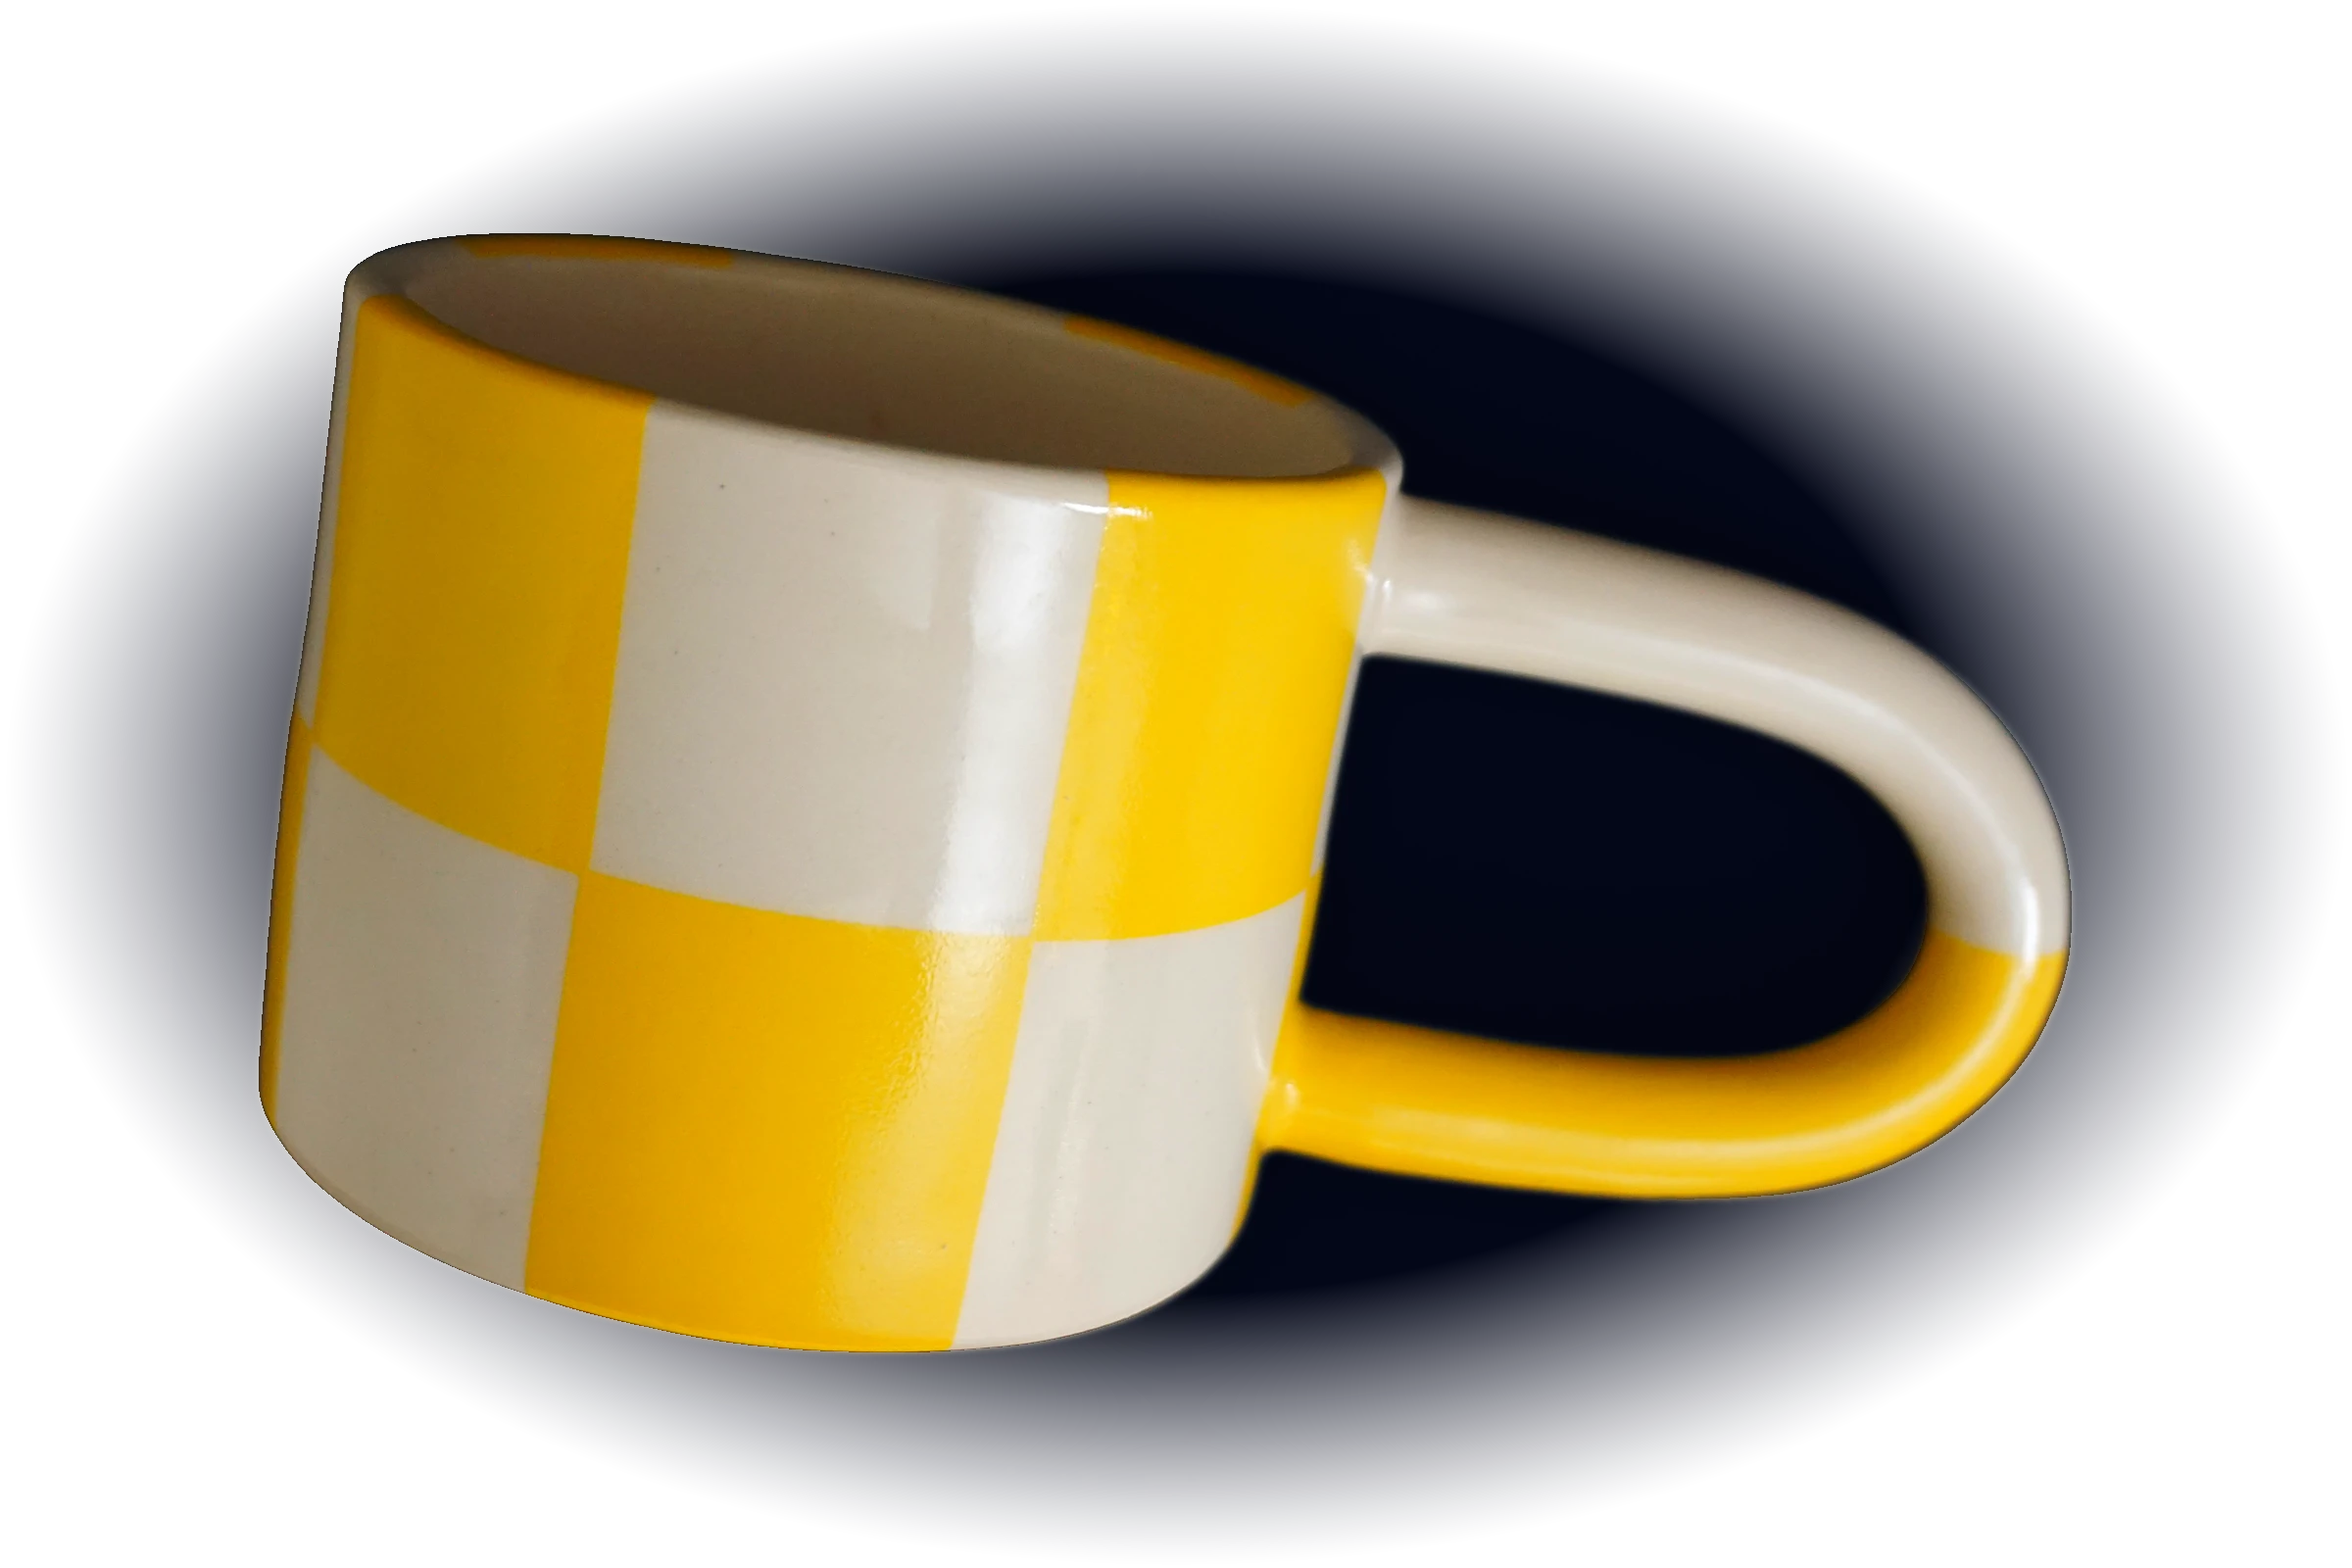
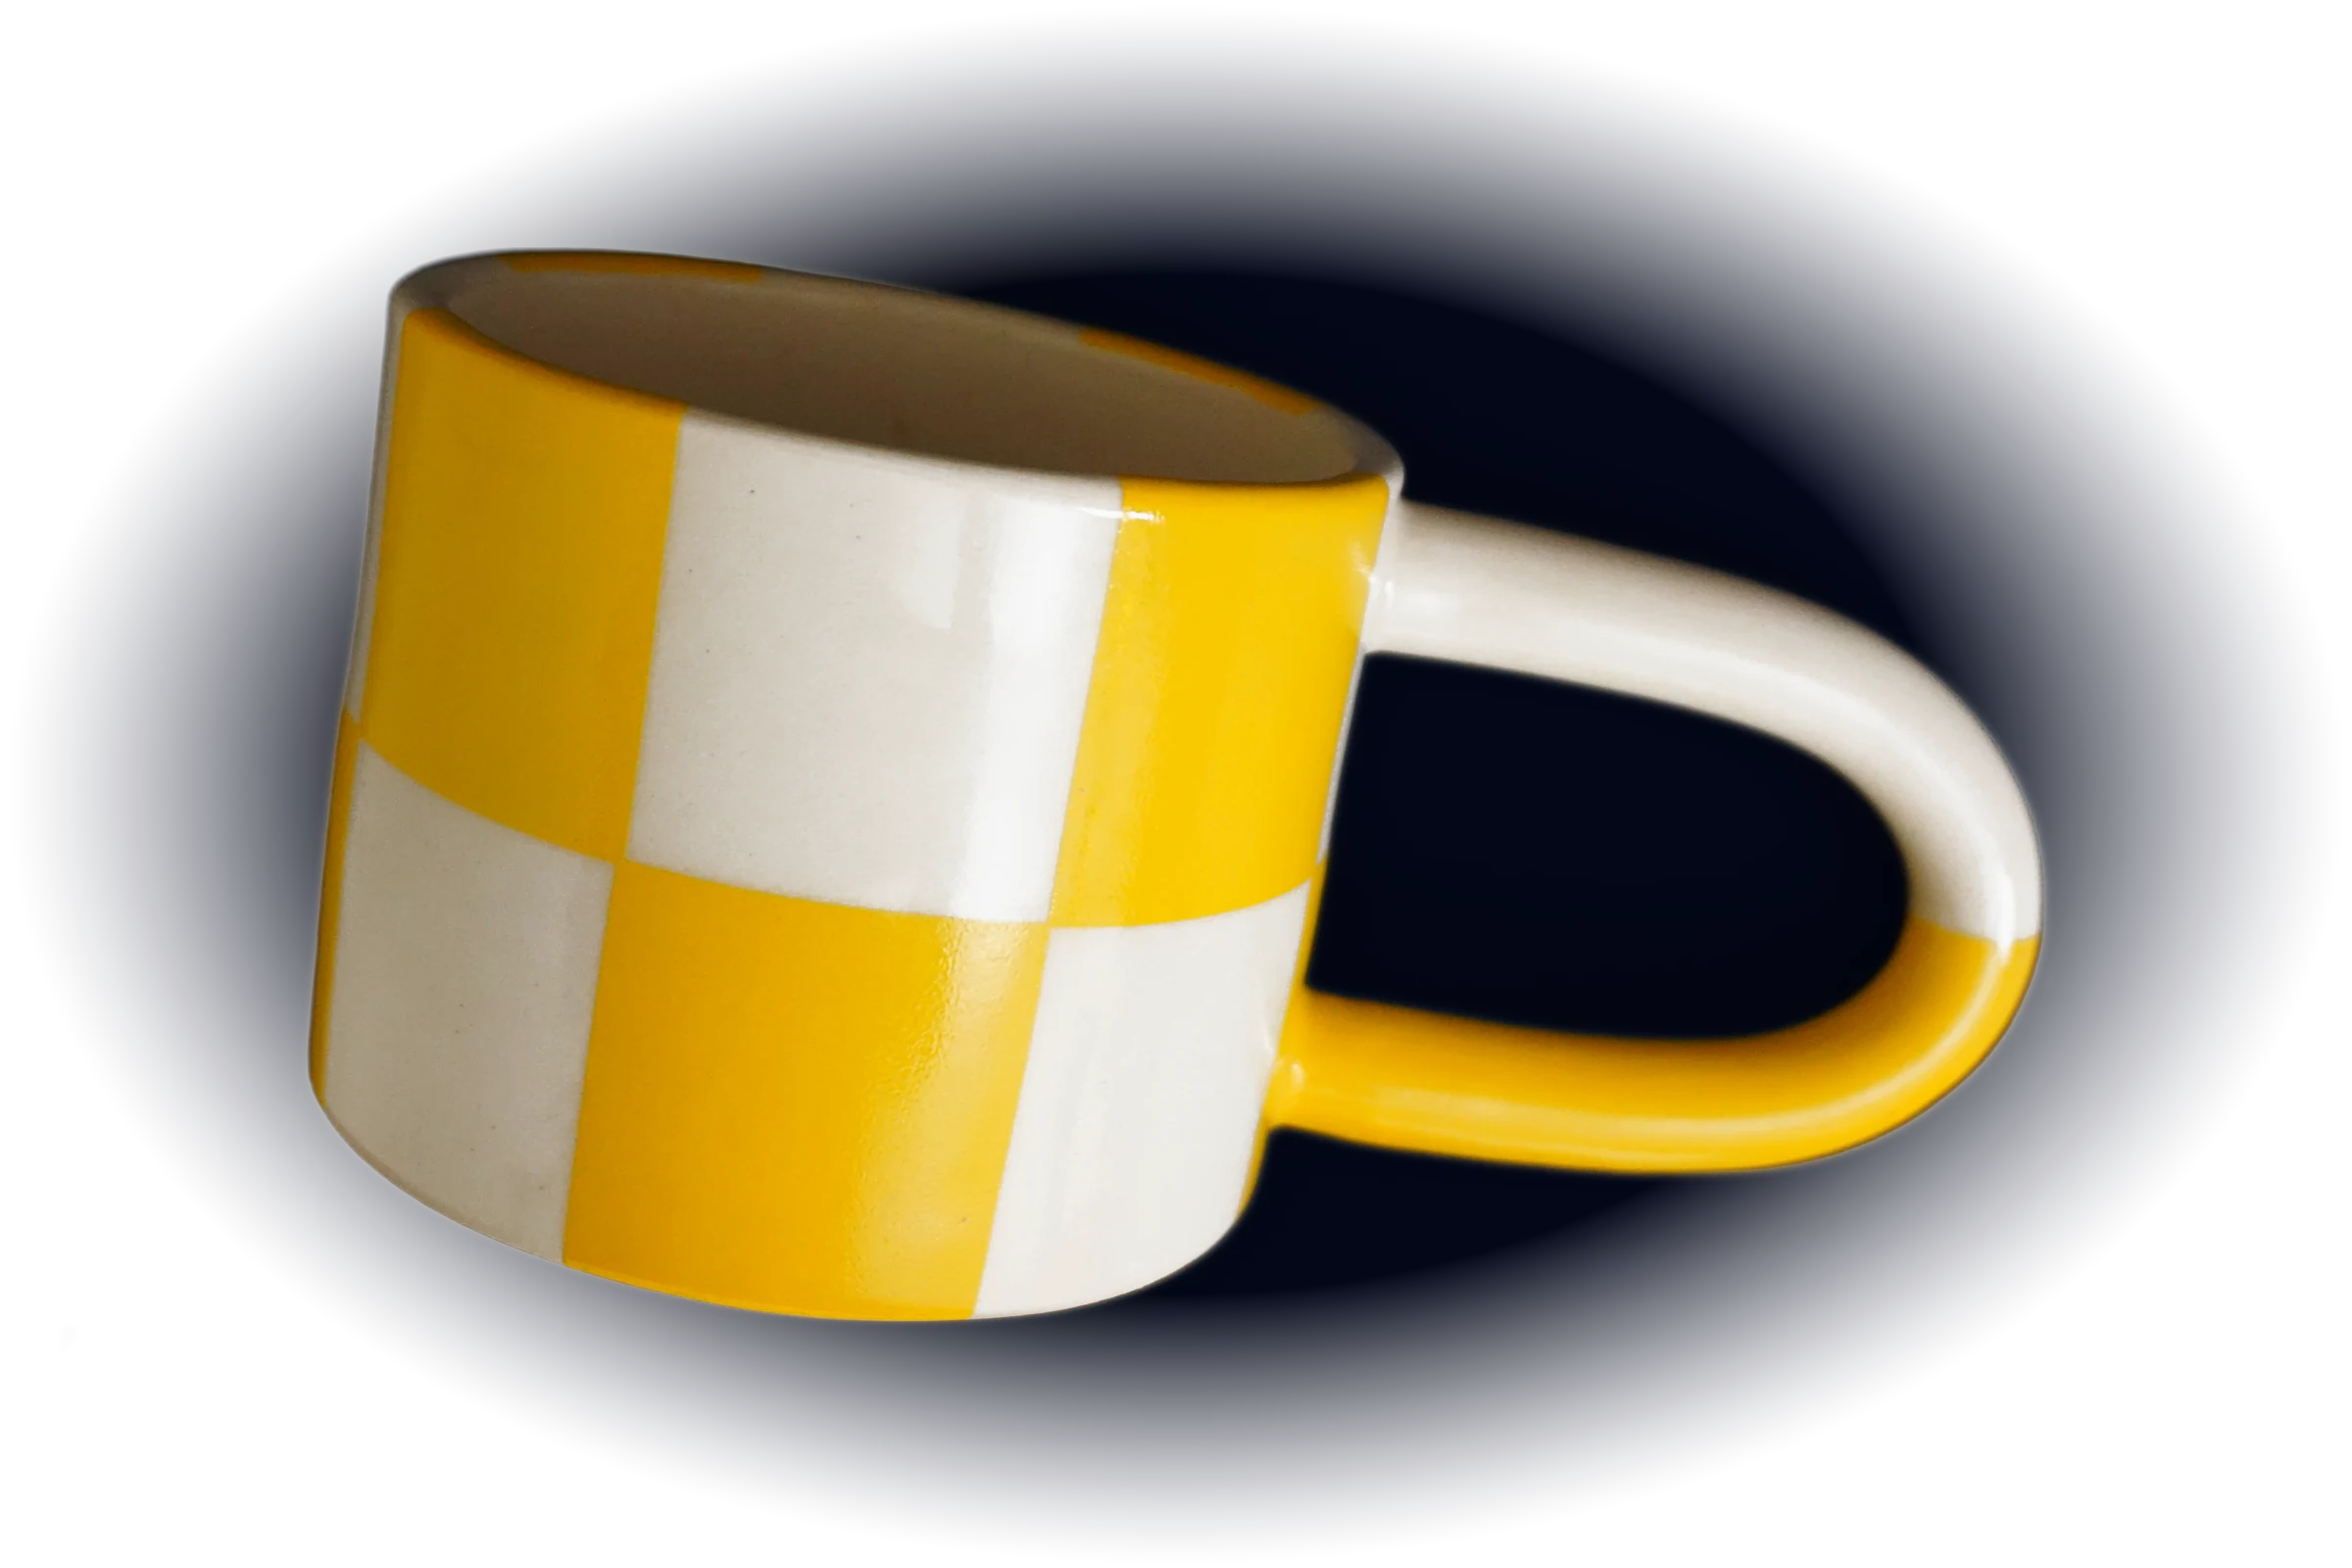
DX intro: brighter whites on both mugs; speckled mug tilts left so the two beats don't sit the same; lighter hero files
Claude-Session: https://claude.ai/code/session_01DwUsKR2ugZpFM2bDqEhyVU

Changed region(s): [[0.0938, 0.125, 0.9062, 0.875]]

diff --git a/index.html b/index.html
@@ -980,7 +980,7 @@ section[data-slide-id="directive"] .qt-note { font: 400 var(--meta)/1.4 var(--fo
 <div class="ih-cap"><p class="meta">01 · Mugs</p><p class="ih-text">I have an unhealthy obsession with collecting handmade ceramic mugs.</p></div>
 </section>
 <section data-pass class="slide intro-hero ih-left" data-act="Open" data-dim=".2" data-silk="ember" aria-label="But sipping coffee from one every day brings me so much joy.">
-<div class="ih-depth" aria-hidden="true"><img class="ih-fl far" src="img/intro/fl/ink-orange.webp" alt="" decoding="async" style="--x:14%;--y:18%;--w:9;--r:-10deg"><img class="ih-fl far" src="img/intro/fl/ink-teal.webp" alt="" decoding="async" style="--x:72%;--y:14%;--w:8;--r:6deg"></div><figure class="ih-fig"><img src="img/intro/still-mug-speckled.webp" alt="" decoding="async"></figure><div class="ih-depth ih-near" aria-hidden="true"><img class="ih-fl near" src="img/intro/fl/pencil-mini-yellow.webp" alt="" decoding="async" style="--x:57%;--y:85%;--w:13;--r:36deg"><img class="ih-fl near" src="img/intro/fl/clip-red.webp" alt="" decoding="async" style="--x:22%;--y:83%;--w:13;--r:14deg"></div>
+<div class="ih-depth" aria-hidden="true"><img class="ih-fl far" src="img/intro/fl/ink-orange.webp" alt="" decoding="async" style="--x:14%;--y:18%;--w:9;--r:-10deg"><img class="ih-fl far" src="img/intro/fl/ink-teal.webp" alt="" decoding="async" style="--x:72%;--y:14%;--w:8;--r:6deg"></div><figure class="ih-fig"><img src="img/intro/still-mug-speckled.webp" alt="" decoding="async"></figure><div class="ih-depth ih-near" aria-hidden="true"><img class="ih-fl near" src="img/intro/fl/pencil-mini-yellow.webp" alt="" decoding="async" style="--x:49%;--y:87%;--w:13;--r:36deg"><img class="ih-fl near" src="img/intro/fl/clip-red.webp" alt="" decoding="async" style="--x:22%;--y:83%;--w:13;--r:14deg"></div>
 <div class="ih-cap"><p class="meta">01 · Mugs</p><p class="ih-text">But sipping coffee from one every day brings me so much joy.</p></div>
 </section>
 <section data-pass class="slide intro-hero " data-act="Open" data-dim=".2" data-silk="ember" aria-label="My small daily joy is writing in my Hobonichi Techo with all my Japanese stationery.">
